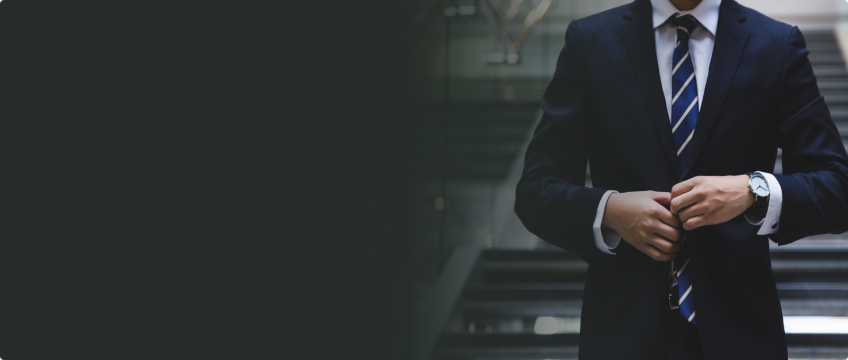
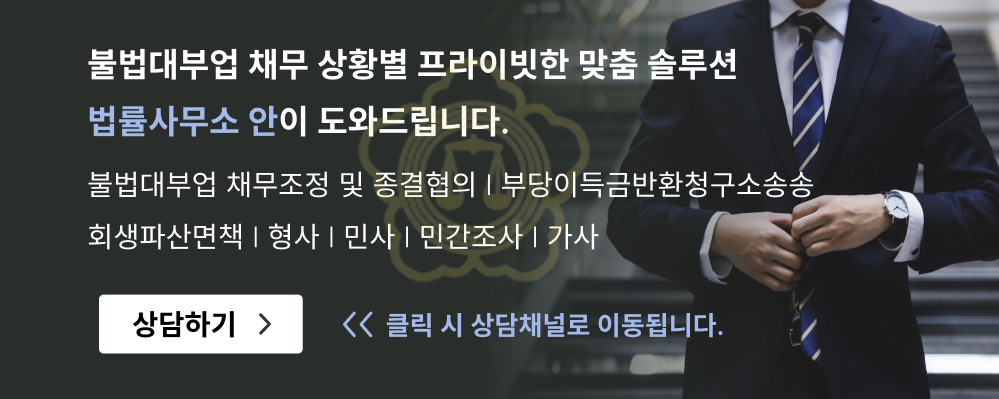
#대부 - 서버 소스 동기화, 일자리 찾기 전화번호 전화 연결

diff --git a/web/law_list.html b/web/law_list.html
@@ -1,0 +1,150 @@
+<!DOCTYPE html>
+<html lang="ko">
+<head>
+    <meta charset="utf-8">
+    <meta name="viewport" content="width=device-width, viewport-fit=cover, initial-scale=1.0, maximum-scale=1.0, minimum-scale=1.0, user-scalable=no">
+    <meta name="format-detection" content="telephone=no, address=no, email=no">
+    <meta name="apple-mobile-web-app-capable" content="yes">
+    <meta name="apple-mobile-web-app-status-bar-style" content="default">
+
+    <link rel="stylesheet" href="./assets/css/lib/swiper-bundle.min.css">
+    <link rel="stylesheet" href="./assets/css/common.css">
+
+    <script type="text/javascript" src="./assets/js/lib/jquery-3.6.0.min.js"></script>
+    <script type="text/javascript" src="./assets/js/lib/swiper-bundle.min.js"></script>
+    <script type="text/javascript" src="./assets/js/common.js"></script>
+    <script async src="https://www.googletagmanager.com/gtag/js?id=G-43DNNPPKWP"></script>
+    <title>불법사채 DB검색 및 신고포털-사채패치</title>
+    <script>
+        $(document).ready(function() {
+            /*추가 구글 애널리틱스*/
+            window.dataLayer = window.dataLayer || [];
+            function gtag(){dataLayer.push(arguments);}
+            gtag('js', new Date());
+
+            gtag('config', 'G-143DNNPPKWP');
+            /*추가 끝*/
+
+
+        });
+    </script>
+</head>
+<body>
+<!-- #WRAP -->
+<div id="wrap">
+    <!-- #header -->
+    <header id="header">
+        <div class="inner">
+            <h1>
+                <a href="index.html">
+                    <img src="assets/images/logo.png" alt="사채패스">
+                </a>
+            </h1>
+
+            <nav>
+                <ul>
+                    <li><a href="reg_01.html" title="피해등록하기"><span>피해등록하기</span></a></li>
+                    <li><a href="view_list_01.html" title="불법대부업"><span>불법대부업</span></a></li>
+                    <li><a href="view_list_02.html" title="기타금융사기"><span>기타금융사기</span></a></li>
+                    <li><a href="community_list.html" title="커뮤니티"><span>커뮤니티</span></a></li>
+                    <!--<li><a href="cs_list.html" title="법률상담문의"><span>법률상담문의</span></a></li>-->
+                    <li><a href="job_list.html" title="일자리찾기"><span>일자리찾기</span></a></li>
+                    <li><a href="cs_01.html" title="고객센터"><span>고객센터</span></a></li>
+                </ul>
+            </nav>
+
+            <div class="m_util_menu">
+                <button type="button" class="btn_search" id="btn_search"><span class="blind">검색버튼</span></button>
+                <!--<button type="button" class="btn_site_menu"><span class="blind">사이트 메뉴 버튼</span></button>-->
+                <button type="button" class="btn_close"><span class="blind">닫기 버튼</span></button>
+            </div>
+        </div>
+    </header>
+    <!--// #header -->
+
+    <!-- 모바일 사이트 메뉴 -->
+    <div class="m_gnb_wrap" id="m_gnb_wrap"></div>
+    <!--// 모바일 사이트 메뉴 -->
+
+    <!-- 검색영역 -->
+    <div class="site_srch_wrap">
+        <div class="srch_inner">
+            <h2>불법대부업 및 금융사기 검색</h2>
+
+            <!-- 검색 input -->
+            <div class="srch">
+                <input type="text" id="m_srch_keyword" placeholder="불법사채업자를 검색하세요.">
+                <button type="submit" id="m_btn_search"><span class="blind">검색</span></button>
+            </div>
+            <!--// 검색 input -->
+        </div>
+    </div>
+    <!--// 검색영역 -->
+
+    <!-- 2023-11-17 서브메뉴추가 -->
+    <div class="sub_menu">
+        <div class="menu_slide swiper">
+            <div class="swiper-wrapper">
+                <div class="swiper-slide"><a href="/reg_01.html" title="피해등록하기">피해등록하기</a></div>
+                <div class="swiper-slide"><a href="/view_list_01.html" title="불법대부업">불법대부업</a></div>
+                <div class="swiper-slide"><a href="/view_list_02.html" title="기타금융사기">기타금융사기</a></div>
+                <div class="swiper-slide"><a href="/community_list.html" title="커뮤니티">커뮤니티</a></div>
+                <div class="swiper-slide"><a href="/cs_01.html" title="고객센터">고객센터</a></div>
+                <!--<div class="swiper-slide"><a href="/cs_list.html" title="법률상담문의">법률상담문의</a></div>-->
+                <div class="swiper-slide"><a href="/job_list.html" title="일자리찾기">일자리찾기</a></div>
+            </div>
+        </div>
+    </div>
+    <!--// 2023-11-17 서브메뉴추가 -->
+
+    <!-- #contents -->
+    <div id="contents" class="main">
+        <div class="inner">
+            <div class="content">
+                <div class="location">
+                    <ul>
+                        <li>
+                            <a href="/index.html" class="home"><img src="assets/images/ico_home.svg" alt=""></a>
+                        </li>
+                        <li>
+                            <a href="/law_list.html"><span>법률상담문의</span></a>
+                        </li>
+                    </ul>
+                </div>
+                <div class="sub_tit_area">
+                    <h2>법률상담문의</h2>
+                </div>
+
+                <!-- 2023-11-22 수정 -->
+                <div class="main_srch">
+
+                    <div class="main_bnr" onclick = "window.open('http://pf.kakao.com/_ksxmVb/chat');" style="cursor:pointer;">
+
+                        <!--<p class="txt">
+                            입에 담기 어려운 고민, <br>OOO 사무소가 상담해드리겠습니다.
+                        </p>
+                        <a href="#" class="btn_bnr">
+                            <span>자세히 보기</span>
+                        </a>-->
+                    </div>
+
+
+                </div>
+                <!--// 2023-11-22 수정 -->
+            </div>
+
+            <!-- 사이드 메뉴 -->
+            <div class="snb" id="sub"></div>
+            <!--// 사이드 메뉴 -->
+        </div>
+    </div>
+    <!--// #contents -->
+
+
+    <!-- #footer -->
+    <footer id="footer"></footer>
+    <!--// #footer -->
+</div>
+<!-- // WRAP -->
+</body>
+</html>

diff --git a/web/assets/css/common.css b/web/assets/css/common.css
@@ -30,7 +30,7 @@ figure img {display:block; width:100%; height:auto; object-fit:cover;}
 #header h1 a img {display:block; width:100%; height:auto;}
 #header nav {margin-left:12.4%; width:52.3%;}
 #header nav ul {display:flex; justify-content:space-between;}
-#header nav ul li a span {display:block; padding:33px 0; font-size:14px; font-weight:700; transition:.3s; position:relative;}
+#header nav ul li a span {display:block; padding:33px 0; font-size:16px; font-weight:700; transition:.3s; position:relative;}
 #header nav ul li a span::after {display:block; content:''; height:2px; background-color:#044BD9; border-radius:1px; position:absolute; bottom:27px; right:50%; left:50%; transition:.3s; opacity:0;}
 #header nav ul li.on a span,
 #header nav ul li:hover a span {color:#044bd9;}
@@ -117,7 +117,12 @@ figure img {display:block; width:100%; height:auto; object-fit:cover;}
 .snb .tit_area .tit {font-weight:700; line-height:1.5em;}
 .snb .tit_area .more {font-size:13px; margin-left:auto; padding-right:18px; background:url(../images/arr_right.svg) no-repeat right center;}
 .snb .tit_area .ad {display:block; border-radius:2px; margin-left:8px; width:30px; height:20px; background-color:#111; text-align:center; line-height:20px; color:#fff; font-size:12px; font-weight:700;}
-.snb .snb_box {overflow:hidden; box-shadow:0 8px 12px rgba(0, 0, 0, 0.08); background-color:#fff; border-radius:2px; padding:24px; box-sizing:border-box;}
+.snb .snb_box {overflow:hidden; box-shadow:0 8px 12px rgba(0, 0, 0, 0.08); background-color:#fff; border-radius:2px;
+	padding-top: 12px;
+	padding-right: 24px;
+	padding-left:  24px;
+	padding-bottom: 24px;
+	box-sizing:border-box;}
 
 /* 목록 */
 .snb_box li ~ li {margin-top:4px;}
@@ -216,6 +221,15 @@ textarea {resize:none; padding:16px 20px; width:100%; height:240px; box-sizing:b
 	overflow-y: auto; /* 세로 스크롤만 표시되도록 설정 */
 
 }
+
+
+/*법률 상담 문의 추가 */
+.law_srch {display:flex;height:400px; }
+
+/* 메인 베너 */
+.law_bnr {width:calc(100% - 16px); padding:38px 32px; background:url(../images/main_bnr.png) no-repeat right center; background-size:cover; box-sizing:border-box;}
+
+
 
 /* 스크롤 바 */
 ::-webkit-scrollbar {

diff --git a/web/index.html b/web/index.html
@@ -171,7 +171,7 @@
 					<li><a href="view_list_02.html" title="기타금융사기"><span>기타금융사기</span></a></li>
 					<li><a href="community_list.html" title="커뮤니티"><span>커뮤니티</span></a></li>
 					<!--<li><a href="cs_list.html" title="법률상담문의"><span>법률상담문의</span></a></li>-->
-                    <li><a href="job_list.html" title="일자리찾기"><span>일자리찾기</span></a></li>
+					<li><a href="job_list.html" title="일자리찾기"><span>일자리찾기</span></a></li>
 					<li><a href="cs_01.html" title="고객센터"><span>고객센터</span></a></li>
 				</ul>
 			</nav>

diff --git a/web/include/sub.html b/web/include/sub.html
@@ -80,10 +80,10 @@
 
         var adWrap = $('<div>')
                 .addClass('ad_wrap');
-        var anchor = $('<a>');
-                // .attr('href', '#');
+        var anchor = $('<a>')
+                .attr('href', 'tel:' + item.TEL_NO);
         var image = $('<img>')
-                .attr('src', "http://117.52.84.88:8080"+item.IMG_URL)
+                .attr('src', "http://117.52.84.88:8080" + item.IMG_URL)
                 .attr('onError', "this.src='assets/images/bg_ad.png'")
                 .attr('alt', 'AD');
         var figure = $('<figure>')

diff --git a/web/job_list.html b/web/job_list.html
@@ -59,7 +59,8 @@
 									var adWrap = $('<div>')
 											.addClass('ad_wrap');
 									var anchor = $('<a>')
-											.attr('href', '#');
+											.attr('href', 'tel:' + item.TEL_NO);
+											// .attr('href', '#');
 									var image = $('<img>')
 											.attr('src', item.IMG_URL)
 											.attr('onError', "this.src='assets/images/bg_ad.png'")
